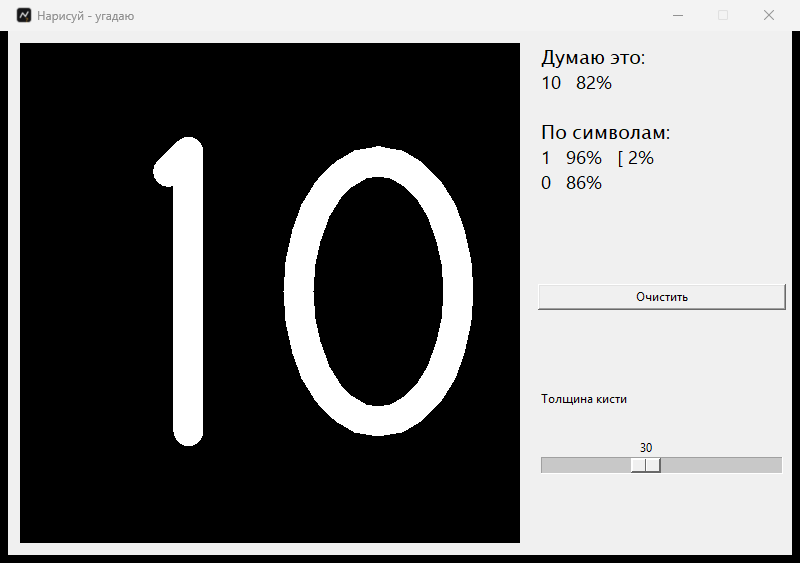
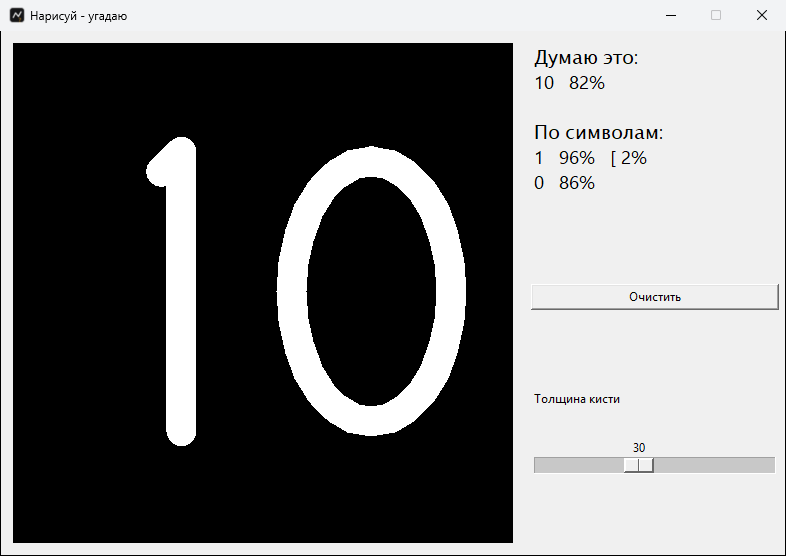
Кадр для README без чёрных полос справа и снизу
GetWindowRect включает невидимые рамки для растягивания, и PrintWindow рисовал их
чёрными. Кадр обрезается по видимой границе окна из DWM.

diff --git a/tools/make_screenshot.py b/tools/make_screenshot.py
@@ -29,6 +29,7 @@ from PIL import Image  # noqa: E402
 from app import DrawApp  # noqa: E402
 
 PW_RENDERFULLCONTENT = 2
+DWMWA_EXTENDED_FRAME_BOUNDS = 9
 
 
 class FakeEvent:
@@ -64,12 +65,22 @@ def capture(hwnd, path):
     ctypes.memmove(header, (ctypes.c_int32 * 11)(40, w, -h, 1 | (32 << 16), 0, w * h * 4, 0, 0, 0, 0, 0), 44)
     gdi32.GetDIBits(dc, bmp, 0, h, buf, header, 0)
 
-    Image.frombuffer("RGBA", (w, h), buf, "raw", "BGRA", 0, 1).convert("RGB").save(path)
+    image = Image.frombuffer("RGBA", (w, h), buf, "raw", "BGRA", 0, 1).convert("RGB")
 
     gdi32.DeleteObject(bmp)
     gdi32.DeleteDC(dc)
     user32.ReleaseDC(hwnd, src)
-    return w, h
+
+    # GetWindowRect в Windows 10/11 включает невидимые рамки для растягивания - около
+    # 7 px слева, справа и снизу. PrintWindow рисует их чёрными, и в первом кадре для
+    # README справа и снизу стояли чёрные полосы. Видимую границу окна знает DWM.
+    frame = wintypes.RECT()
+    if not ctypes.windll.dwmapi.DwmGetWindowAttribute(
+            hwnd, DWMWA_EXTENDED_FRAME_BOUNDS, ctypes.byref(frame), ctypes.sizeof(frame)):
+        image = image.crop((frame.left - rect.left, frame.top - rect.top,
+                            frame.right - rect.left, frame.bottom - rect.top))
+    image.save(path)
+    return image.size
 
 
 def main():
